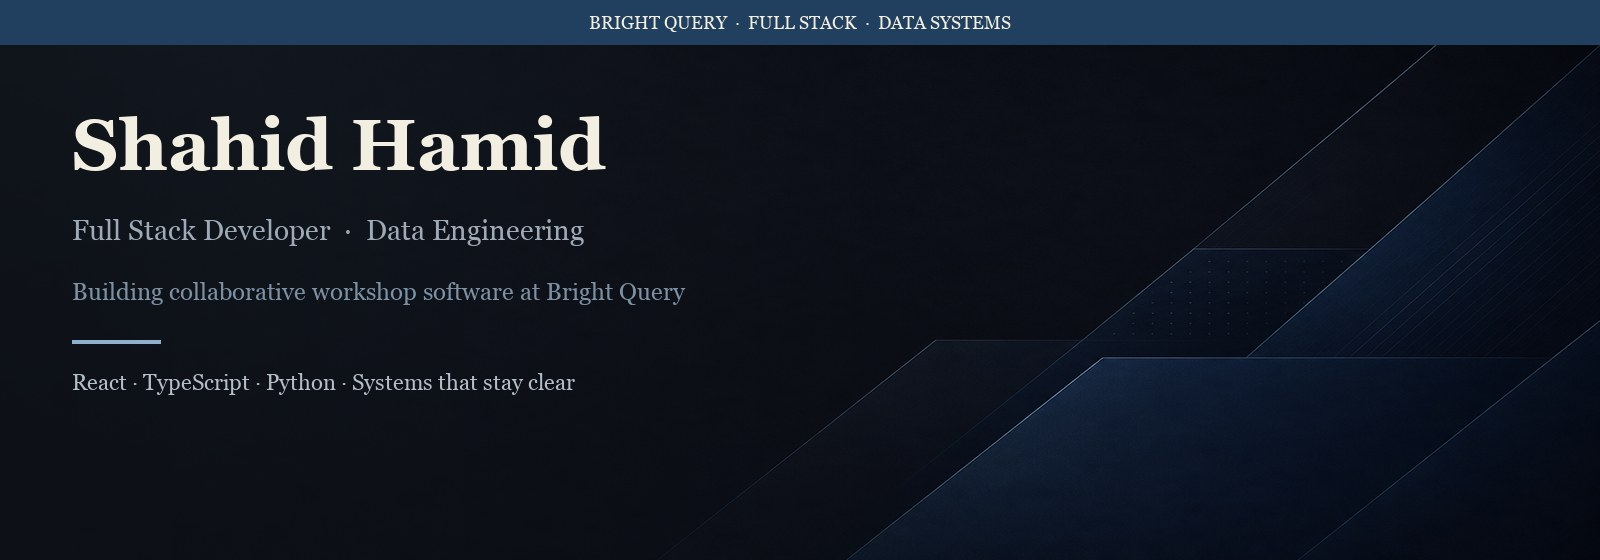
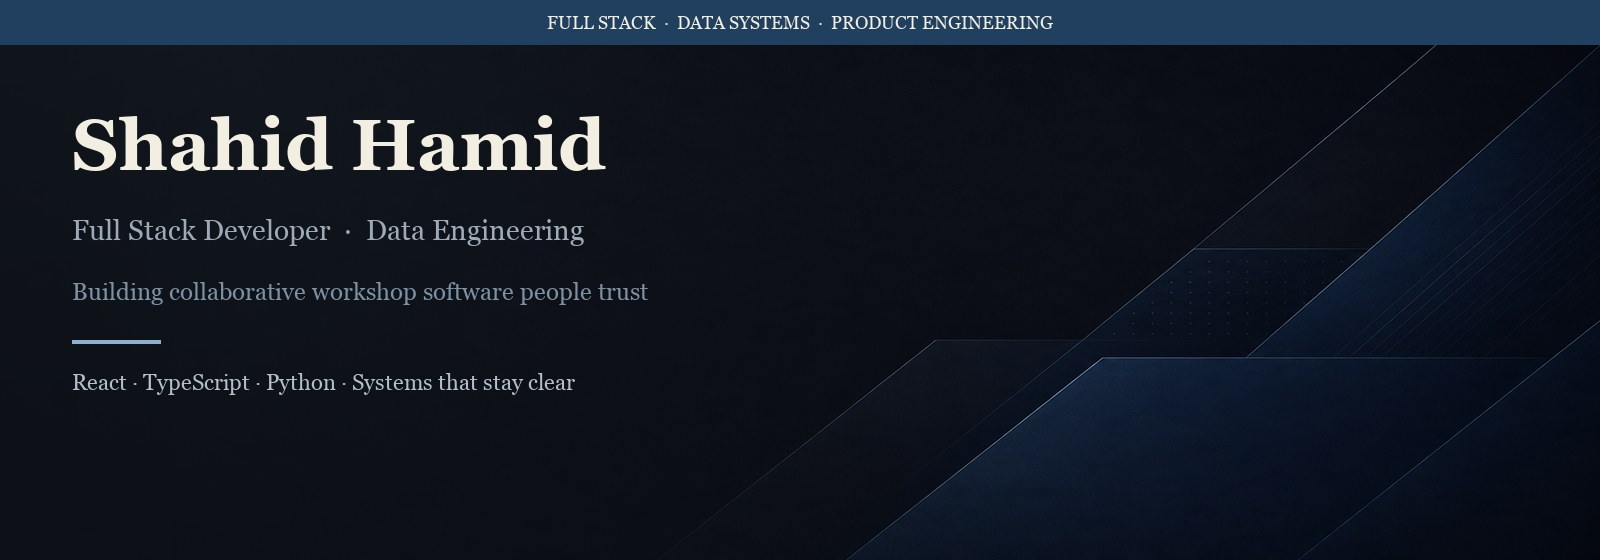
Remove Bright Query mentions from profile
Keep the profile personal without company branding in copy or banner.

Changed region(s): [[0.3438, 0.0304, 0.6562, 0.0607], [0.3125, 0.4857, 0.4375, 0.5464]]

diff --git a/README.md b/README.md
@@ -7,7 +7,7 @@
 <br/>
 
 <div align="center">
-  <img src="https://readme-typing-svg.demolab.com?font=Inter&weight=500&size=20&duration=3600&pause=1200&color=8FB0CC&center=true&vCenter=true&width=720&height=40&lines=Build+tools+people+trust+in+the+room.;Architecture+first.+Interface+second.+Noise+never.;Full+stack+%C2%B7+Data+systems+%C2%B7+Bright+Query" alt="tagline" />
+  <img src="https://readme-typing-svg.demolab.com?font=Inter&weight=500&size=20&duration=3600&pause=1200&color=8FB0CC&center=true&vCenter=true&width=720&height=40&lines=Build+tools+people+trust+in+the+room.;Architecture+first.+Interface+second.+Noise+never.;Full+stack+%C2%B7+Data+systems+%C2%B7+Clear+interfaces" alt="tagline" />
 </div>
 
 <p align="center">
@@ -21,7 +21,7 @@
 
 I design and ship full-stack systems with a bias toward clarity — products that feel calm under pressure, and data paths that stay understandable months later.
 
-At **Bright Query**, I build collaborative workshop software (**Quorum**): facilitator flows, participant experiences, and the architecture underneath.
+I build collaborative workshop software: facilitator flows, participant experiences, and the architecture underneath.
 
 ---
 
